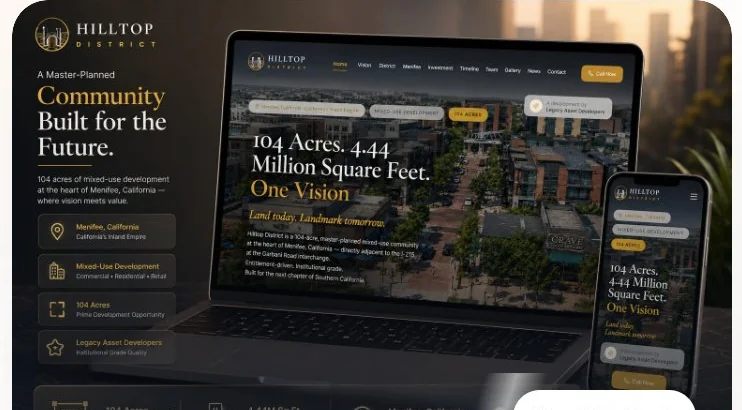
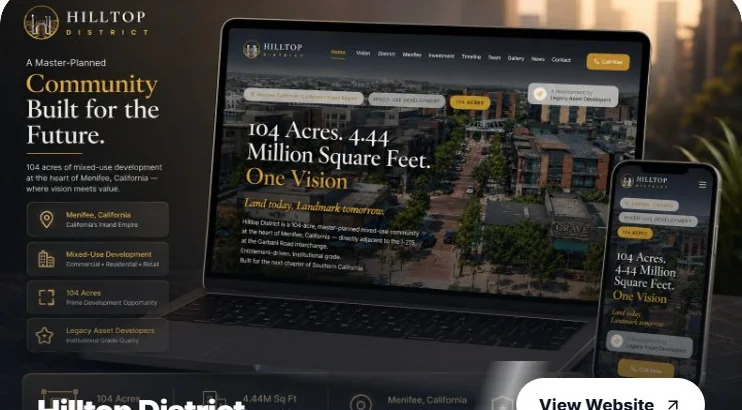
Portfolio: fix Hilltop cinematic side gaps

diff --git a/index.html b/index.html
@@ -117,7 +117,7 @@
     <p class="sub" style="text-align:center;max-width:940px;margin-left:auto;margin-right:auto">A collection of websites and digital experiences crafted for growth, performance, and exceptional user experiences.</p>
     <div class="work-grid">
       <a class="pf-cine" href="https://hilltopdistrict.com/" target="_blank" rel="noopener">
-        <picture><source srcset="img/portfolio-hilltop-cinematic.webp?v=2" type="image/webp"><img src="img/portfolio-hilltop-cinematic.jpg?v=2" width="742" height="410" alt="Hilltop District — AI-powered website by Nona Digi" loading="lazy" decoding="async"></picture>
+        <picture><source srcset="img/portfolio-hilltop-cinematic.webp?v=3" type="image/webp"><img src="img/portfolio-hilltop-cinematic.jpg?v=3" width="742" height="410" alt="Hilltop District — AI-powered website by Nona Digi" loading="lazy" decoding="async"></picture>
         <span class="edge"></span><span class="scrim"></span>
         <span class="row"><span class="t">Hilltop District</span><span class="vpill">View Website ↗</span></span>
       </a>
